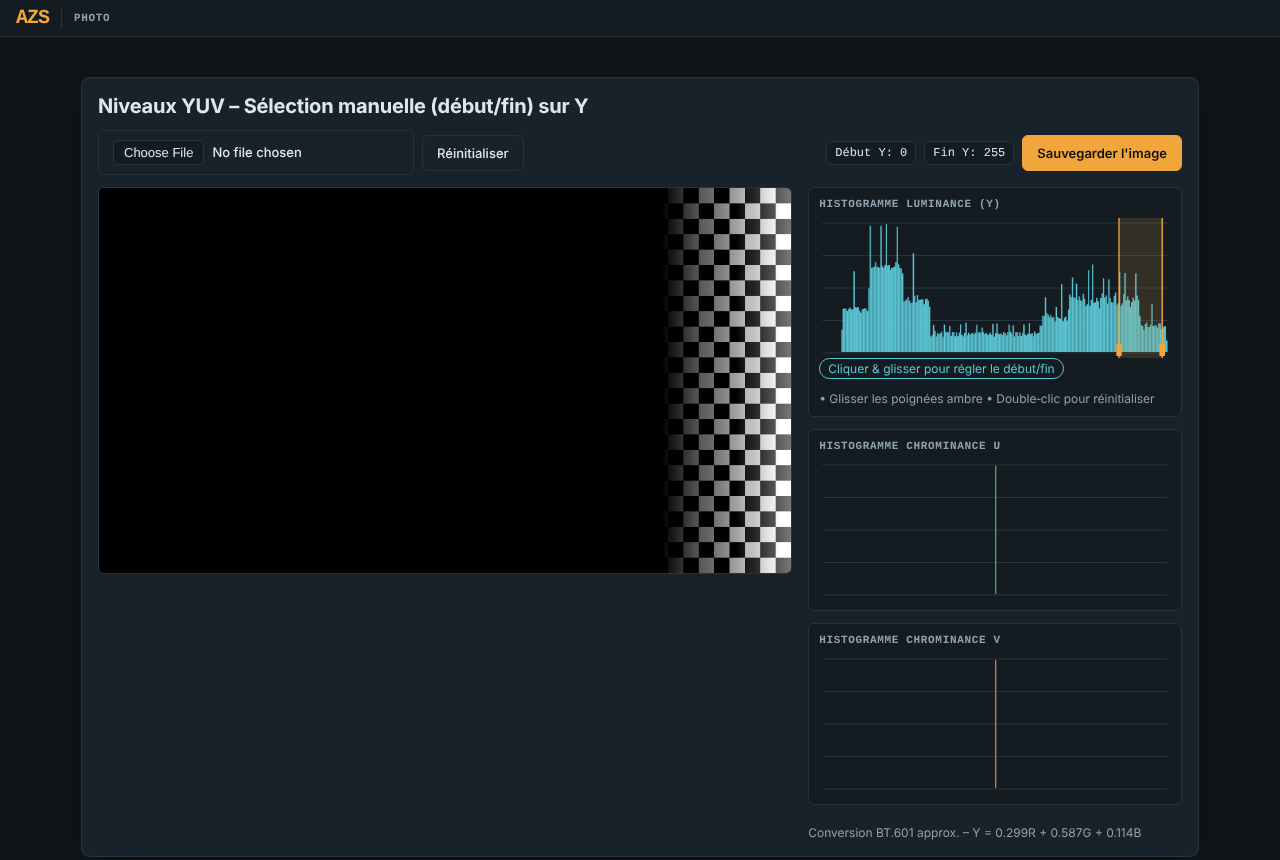
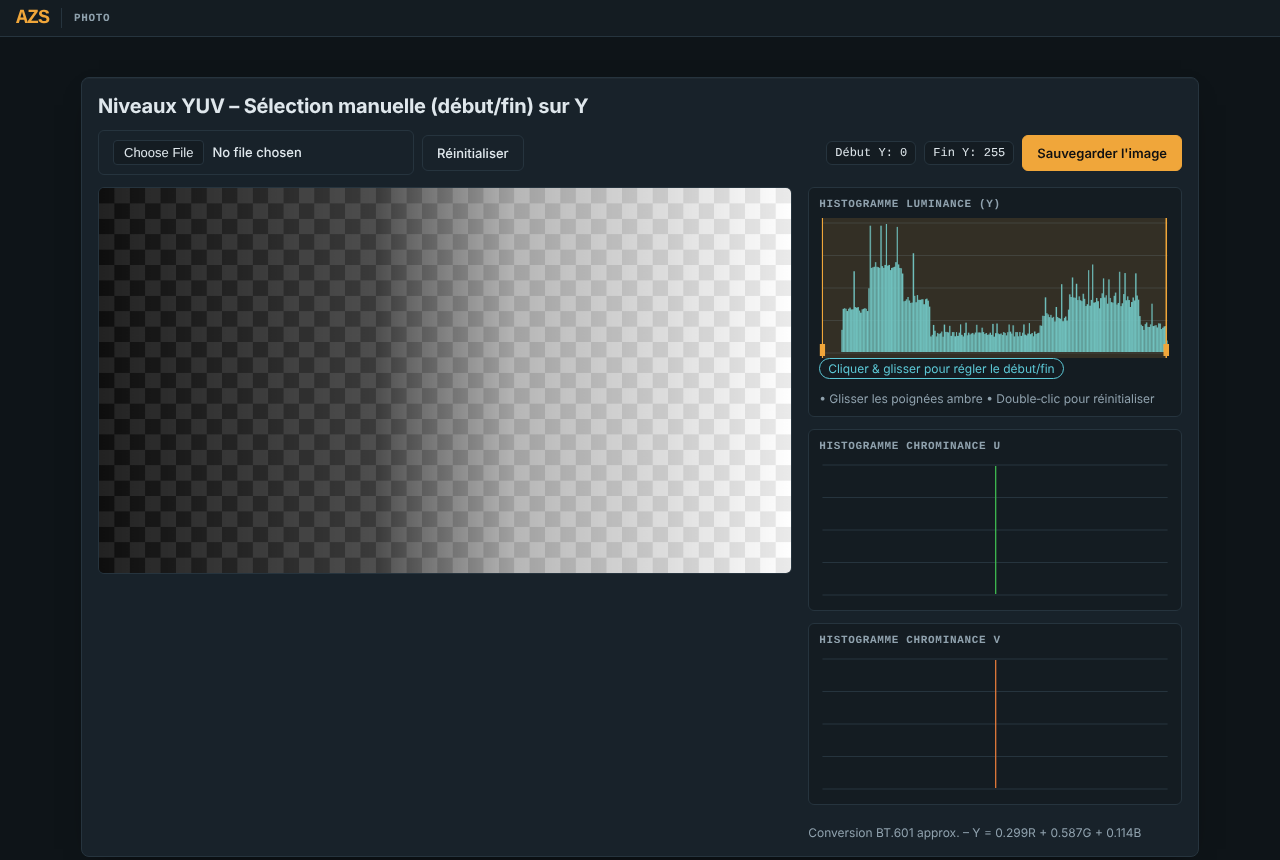
Niveaux YUV 2.3 : bornes neutres au chargement et à la réinitialisation
Les bornes démarraient à 220 / 252 (253 après « Réinitialiser ») alors
que l'affichage indiquait 0 / 255 : l'image chargée était assombrie
d'office. Bornes 0 / 255 au démarrage, à chaque nouvelle image et à la
réinitialisation, libellés synchronisés. Lignes d'historique des
cartouches remises en forme.

Claude-Session: https://claude.ai/code/session_018DEShnQbFmf7n67u3FoFwU

Changed region(s): [[0.0625, 0.2116, 0.875, 0.6651], [0.9062, 0.2721, 0.9375, 0.4233]]

diff --git a/histogram-levels-yuv2.html b/histogram-levels-yuv2.html
@@ -5,15 +5,19 @@
   Objet      : réglage des niveaux d'une photo sur la luminance Y (bornes début /
                fin), histogrammes Y, U, V, enregistrement PNG de l'image traitée
   Auteur     : Eric Perret
-  Version    : 2.2
+  Version    : 2.3
   Date       : 2026-10-18
   Plateforme : HTML / CSS / JavaScript, fichier unique, aucune librairie
   Historique :
     2.0  2026-08-15  version publiée
     2.1  2026-10-17  téléchargement fiabilisé (lien ajouté à la page, URL libérée
                      après coup)
-    2.2  2026-10-18  charte graphique AZS 
-                     (palette ardoise / ambre / cyan, bandeau AZS avec lien de retour vers www.azs.fr, polices système), thème sombre
+    2.2  2026-10-18  charte graphique AZS (palette ardoise / ambre /
+                     cyan, bandeau AZS avec lien de retour vers www.azs.fr,
+                     polices système), thème sombre
+    2.3  2026-10-18  bornes neutres (0 / 255) au chargement d'une image et à la
+                     réinitialisation : l'image n'est plus assombrie d'office et
+                     les poignées correspondent aux valeurs affichées
 ================================================================================
 -->
 <html lang="fr">
@@ -131,9 +135,9 @@ let yHist = new Array(256).fill(0);
 let uHist = new Array(256).fill(0);
 let vHist = new Array(256).fill(0);
 
-// bornes sélectionnées (début/fin) sur Y
-let lowY = 220;
-let highY = 252;
+// bornes sélectionnées (début/fin) sur Y : neutres au départ (image inchangée)
+let lowY = 0;
+let highY = 255;
 
 // --- Charger une image ---
 document.getElementById('fileInput').addEventListener('change', e=>{
@@ -152,6 +156,7 @@ document.getElementById('fileInput').addEventListener('change', e=>{
       imgCtx.clearRect(0,0,w,h);
       imgCtx.drawImage(img, 0,0, w,h);
       originalImageData = imgCtx.getImageData(0,0,w,h);
+      lowY = 0; highY = 255; updateHandlesLabel();   // nouvelle image : bornes neutres
       computeHistograms();
       applyLevelsAndRender();
     };
@@ -162,7 +167,7 @@ document.getElementById('fileInput').addEventListener('change', e=>{
 
 // --- Réinitialiser ---
 document.getElementById('resetBtn').addEventListener('click', ()=>{
-  lowY = 220; highY = 253; updateHandlesLabel();
+  lowY = 0; highY = 255; updateHandlesLabel();
   if(originalImageData){
     computeHistograms();
     applyLevelsAndRender();
@@ -360,6 +365,7 @@ function applyLevelsAndRender(){
   }
   imgCtx.globalAlpha=1;
   originalImageData = imgCtx.getImageData(0,0,w,h);
+  updateHandlesLabel();
   computeHistograms();
   applyLevelsAndRender();
 })();

diff --git a/perspective-correction-filtres.html b/perspective-correction-filtres.html
@@ -15,8 +15,9 @@
                      non modifié ; la projection 3D (homographie) et les filtres
                      sont désormais recalculés sur les pixels ; téléchargement
                      fiabilisé (lien ajouté à la page, URL libérée après coup)
-    1.2  2026-10-18  charte graphique AZS 
-                     (palette ardoise / ambre / cyan, bandeau AZS avec lien de retour vers www.azs.fr, polices système), thème sombre
+    1.2  2026-10-18  charte graphique AZS (palette ardoise / ambre /
+                     cyan, bandeau AZS avec lien de retour vers www.azs.fr,
+                     polices système), thème sombre
 ================================================================================
 -->
 <html lang="fr">

diff --git a/jpeg-forensic-v3.html b/jpeg-forensic-v3.html
@@ -12,8 +12,9 @@
                lecture locale (aucun envoi)
   Historique :
     3    2026-08-15  version publiée
-    3.1  2026-10-18  charte graphique AZS 
-                     (palette ardoise / ambre / cyan, bandeau AZS avec lien de retour vers www.azs.fr, polices système)
+    3.1  2026-10-18  charte graphique AZS (palette ardoise / ambre /
+                     cyan, bandeau AZS avec lien de retour vers www.azs.fr,
+                     polices système)
 ================================================================================
 -->
 <html lang="fr">

diff --git a/LISEZMOI.md b/LISEZMOI.md
@@ -88,6 +88,7 @@ Outil d'appui à la documentation de la plateforme SEG973 (csvgen) : parcourt la
 |---|---|---|
 | Correction de perspective | 1.1 | Enregistrement corrigé : l'image sauvegardée était l'original non modifié (réglages appliqués en CSS seulement) ; téléchargement fiabilisé |
 | Niveaux YUV | 2.1 | Téléchargement fiabilisé |
+| Niveaux YUV | 2.3 | Bornes neutres (0 / 255) au chargement d'une image et à la réinitialisation : l'image n'est plus assombrie d'office et les poignées correspondent aux valeurs affichées |
 | Les six outils | 2026-10-18 | Charte graphique AZS : palette ardoise / ambre / cyan, bandeau AZS avec lien de retour vers www.azs.fr, thème sombre pour les niveaux YUV et la correction de perspective ; captures refaites |
 
 ## Licence

diff --git a/README.md b/README.md
@@ -88,6 +88,7 @@ Support tool for documenting the SEG973 platform (csvgen): walks through the mod
 |---|---|---|
 | Perspective correction | 1.1 | Saving fixed: the saved image was the unmodified original (settings applied in CSS only); download made reliable |
 | YUV levels | 2.1 | Download made reliable |
+| YUV levels | 2.3 | Neutral bounds (0 / 255) when an image is loaded and on reset: the image is no longer darkened by default and the handles match the displayed values |
 | All six tools | 2026-10-18 | AZS visual identity: slate / amber / cyan palette, AZS band linking back to www.azs.fr, dark theme for YUV levels and perspective correction; screenshots refreshed |
 
 ## License
